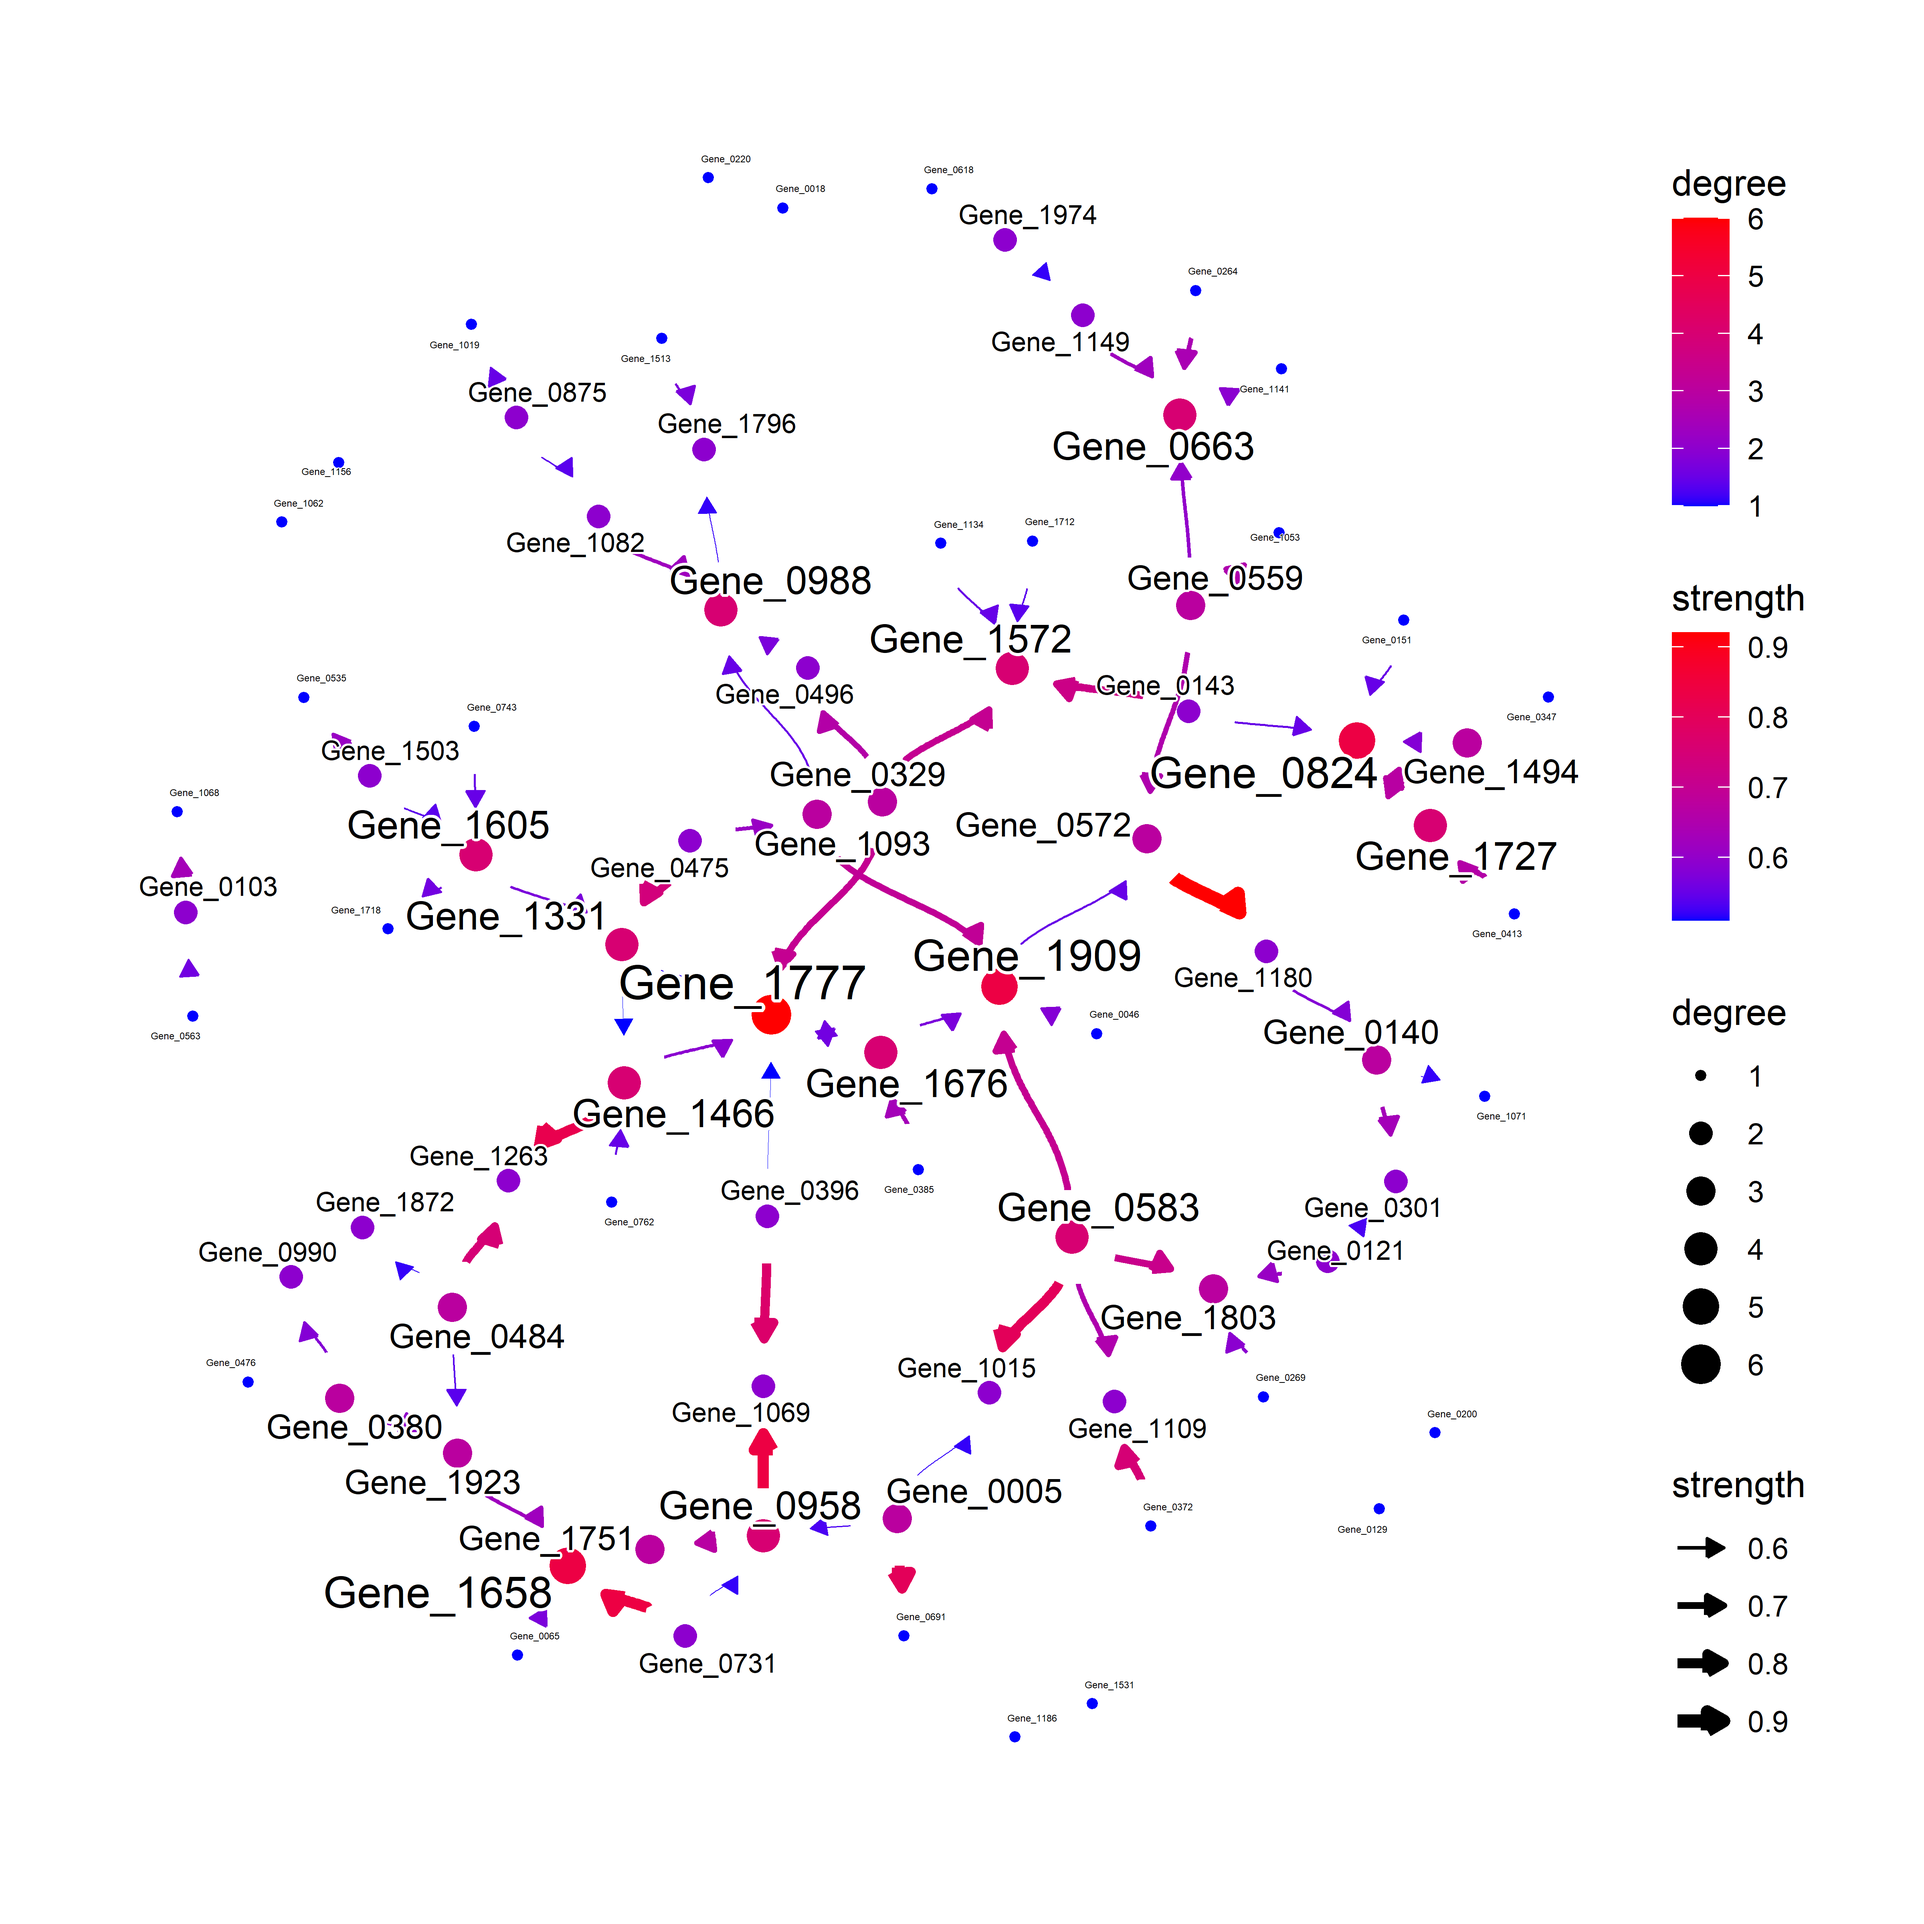
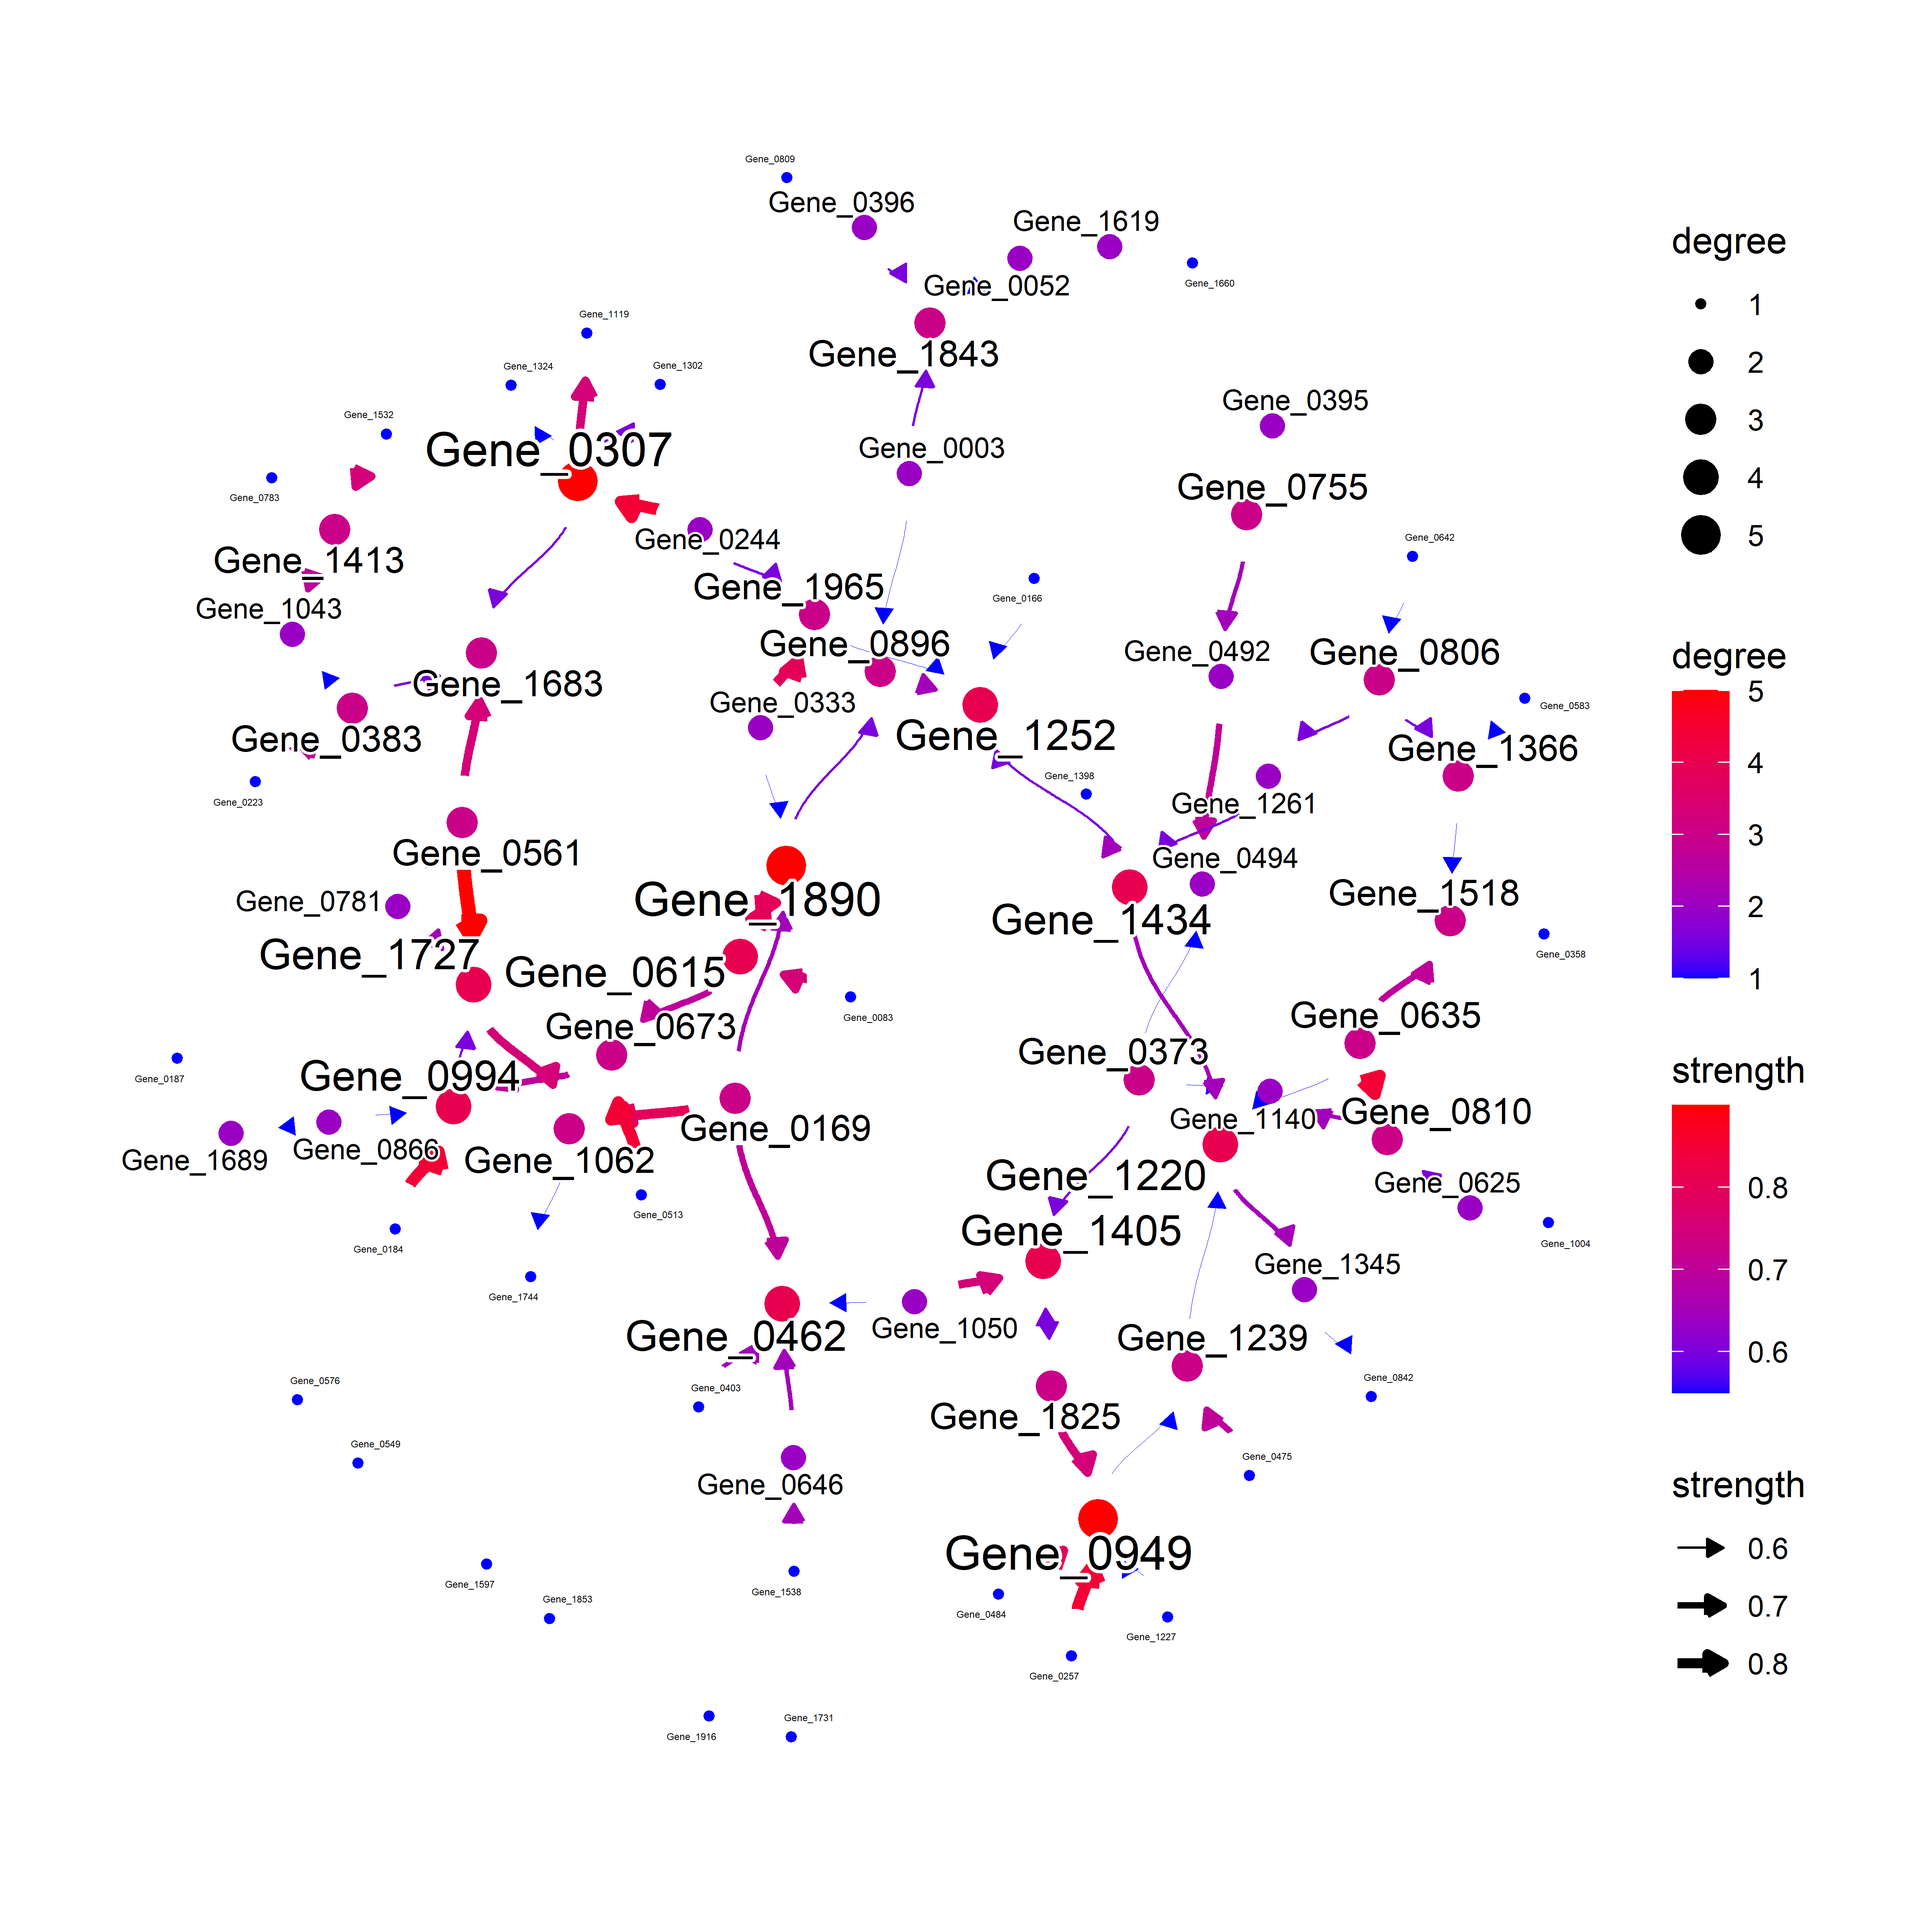
README.Rmd and md

diff --git a/README.md b/README.md
@@ -4,9 +4,8 @@
 # scstruc
 
 The package for analysing the gene regulatory network based on the
-structure of single-cell transcriptomics data, inferred by Bayesian
-network. The function works with `SingleCellExperiment` and
-`SpatialExperiment`.
+Bayesian network structure of single-cell transcriptomics data. The
+function works with `SingleCellExperiment` and `SpatialExperiment`.
 
 ## Installation
 
@@ -33,8 +32,8 @@ library(bnlearn)
 sce <- mockSCE()
 sce <- logNormCounts(sce)
 included_genes <- sample(row.names(sce), 100)
-gs <- globalStruc(sce, included_genes, return_bn=TRUE, return_data=TRUE, change_symbol=FALSE, reg=FALSE)
-#> Using default MMHC
+gs <- scstruc(sce, included_genes, changeSymbol=FALSE)
+#> Using default bnlearn algorithm
 fitted <- bn.fit(gs[[1]], gs[[2]])
 ggraph(bn_fit_to_igraph(fitted), layout="fr") + 
   geom_edge_diagonal(aes(color=coef),
@@ -50,10 +49,10 @@ Using the bootstrapping, the averaged network is obtained.
 
 ``` r
 library(glmnet)
-gs2 <- globalStruc(sce, included_genes, return_bn=TRUE, penalty="glmnet_BIC.boot",
-                  change_symbol = FALSE, algorithm.args=list("R"=100))
+gs2 <- scstruc(sce, included_genes, algorithm="glmnet_BIC.boot",
+               changeSymbol=FALSE, algorithm.args=list("R"=20))
 #> Bootstrapping specified
-plotAVN(gs2)
+plotAVN(gs2$net)
 ```
 
 <img src="man/figures/README-unnamed-chunk-4-1.png" width="2400" style="display: block; margin: auto;" />
@@ -70,40 +69,42 @@ sces <- lapply(sces, function(x) {
   return(x)})
 
 included_genes <- sample(row.names(sce), 50)
-booted <- lapply(sces, function(x) perLabelStruc(x, label_name = "Celltype_1",
-     algorithm.args=list("R"=10), barcode_column="row",
-     candidate_genes=included_genes, nonzero=0.5,
-     penalty="glmnet_CV.boot"))
-#> Celltype_1 
+booted <- lapply(sces, function(x) {
+  scstruc(x, included_genes,
+    changeSymbol=FALSE,
+    labelName="Celltype_1",
+    label="label",
+    algorithm="glmnet_CV.boot",
+    algorithm.args=list("R"=10))
+})
 #> Bootstrapping specified
-#> Celltype_1 
 #> Bootstrapping specified
-ce <- coreEdges(booted, "Celltype_1")
+ce <- coreBootEdges(booted)
 ce
-#> # A tbl_graph: 33 nodes and 36 edges
+#> # A tbl_graph: 44 nodes and 71 edges
 #> #
-#> # A directed simple graph with 4 components
+#> # A directed multigraph with 1 component
 #> #
-#> # Node Data: 33 × 1 (active)
+#> # Node Data: 44 × 1 (active)
 #>    name     
 #>    <chr>    
-#>  1 Gene_0074
-#>  2 Gene_0918
-#>  3 Gene_0109
-#>  4 Gene_0306
-#>  5 Gene_1059
-#>  6 Gene_0280
-#>  7 Gene_1234
-#>  8 Gene_1917
-#>  9 Gene_0356
-#> 10 Gene_1562
-#> # ℹ 23 more rows
+#>  1 Gene_0017
+#>  2 Gene_0196
+#>  3 Gene_0728
+#>  4 Gene_0080
+#>  5 Gene_0221
+#>  6 Gene_0714
+#>  7 Gene_0111
+#>  8 Gene_0689
+#>  9 Gene_0114
+#> 10 Gene_0639
+#> # ℹ 34 more rows
 #> #
-#> # Edge Data: 36 × 4
+#> # Edge Data: 71 × 4
 #>    from    to strength direction
 #>   <int> <int>    <dbl>     <dbl>
-#> 1     1     2      0.7     0.714
-#> 2     3     4      0.7     0.786
-#> 3     3     2      0.9     0.667
-#> # ℹ 33 more rows
+#> 1     1     2      0.8     0.875
+#> 2     1     3      0.6     0.667
+#> 3     4     5      1       0.9  
+#> # ℹ 68 more rows
 ```
